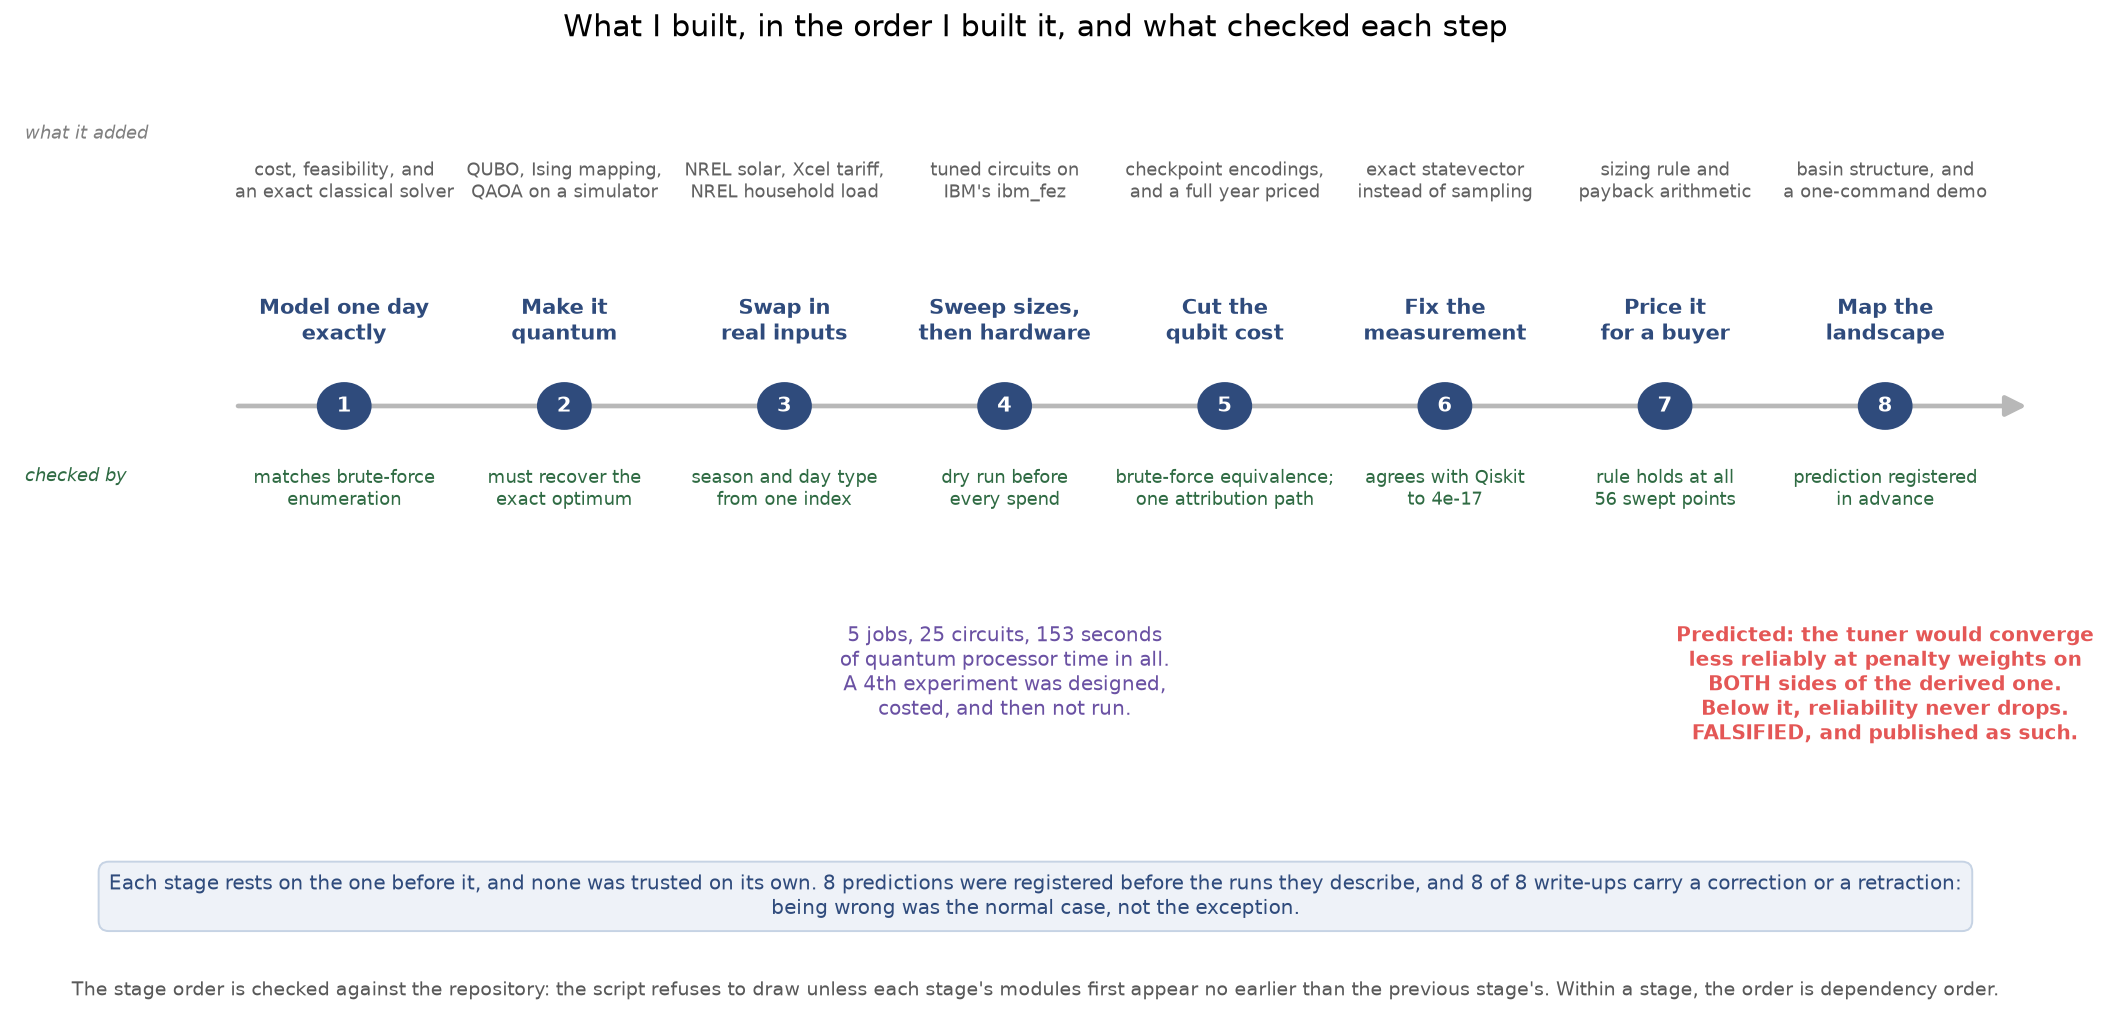
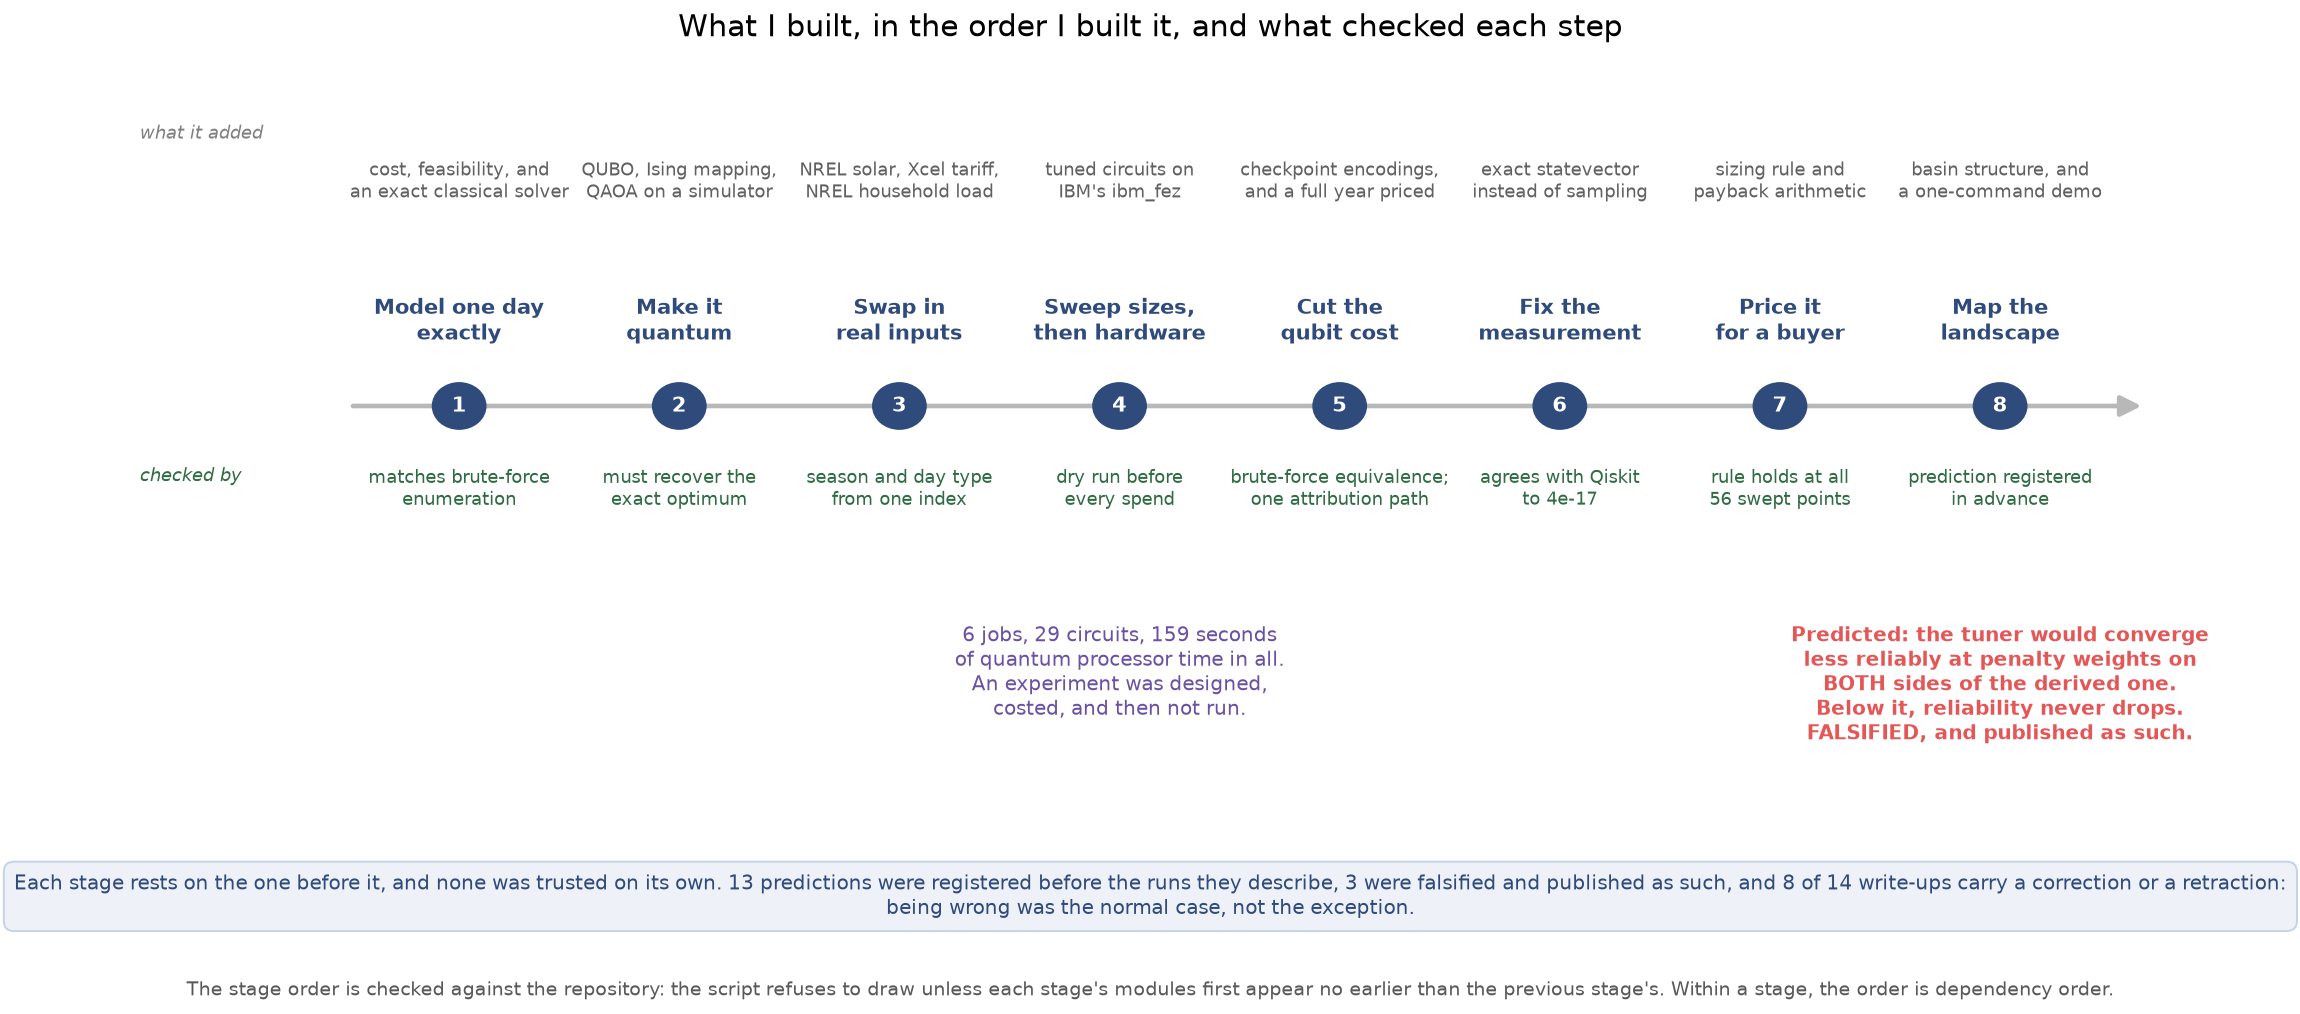
Consistency sweep after the depth run

diff --git a/scripts/make_process_figure.py b/scripts/make_process_figure.py
@@ -134,17 +134,21 @@ def gather():
     plans = sorted(PLANS.glob("*.md"))
     writeups = [p for p in sorted(RESULTS.glob("*.md")) if p.name not in GENERATED]
 
+    # Both counts are DERIVED and drawn, never asserted. An earlier version fixed
+    # the falsified count at one and required every write-up to carry a correction,
+    # so each new result made the figure unregenerable and the caption beside it
+    # drifted instead (docs/LESSONS.md section 7, on the figure about the process).
+    # The guards below check the claim is non-vacuous, not that it is a fixed size.
     falsified = [p for p in writeups if "FALSIFIED" in p.read_text()]
-    if len(falsified) != 1:
+    if not falsified:
         raise SystemExit(
-            f"REFUSING TO DRAW: the summary claims one falsified prediction, but "
-            f"{len(falsified)} write-ups contain FALSIFIED.")
+            "REFUSING TO DRAW: the summary says predictions were falsified and "
+            "published as such, but no write-up contains FALSIFIED.")
     corrected = [p for p in writeups if CORRECTION.search(p.read_text())]
-    if len(corrected) != len(writeups):
-        missing = sorted(p.name for p in writeups if p not in corrected)
+    if not corrected:
         raise SystemExit(
-            f"REFUSING TO DRAW: the summary says every claim-making write-up carries "
-            f"a correction, but these do not: {missing}.")
+            "REFUSING TO DRAW: the summary says write-ups carry corrections, but "
+            "none does.")
 
     totals = re.search(
         r"\*\*(\d+) jobs, (\d+) circuits, ([\d,]+) shots, (\d+) seconds of QPU time",
@@ -165,6 +169,7 @@ def gather():
             "figure paraphrases.")
 
     return {"plans": len(plans), "writeups": len(writeups),
+            "falsified": len(falsified), "corrected": len(corrected),
             "jobs": int(totals.group(1)), "circuits": int(totals.group(2)),
             "qpu": int(totals.group(4))}
 
@@ -199,7 +204,7 @@ def main() -> None:
     # the prediction matters: "a prediction was falsified" is a claim about
     # temperament, and only the actual prediction makes it checkable.
     ax.text(3, -1.14, f"{d['jobs']} jobs, {d['circuits']} circuits, {d['qpu']} "
-            f"seconds\nof quantum processor time in all.\nA 4th experiment was "
+            f"seconds\nof quantum processor time in all.\nAn experiment was "
             f"designed,\ncosted, and then not run.",
             ha="center", va="top", fontsize=10.5, color=HARDWARE)
     ax.text(7, -1.14, "Predicted: the tuner would converge\nless reliably at penalty "
@@ -214,8 +219,9 @@ def main() -> None:
     fig.text(
         0.5, 0.125,
         f"Each stage rests on the one before it, and none was trusted on its own. "
-        f"{d['plans']} predictions were registered before the runs they describe, and "
-        f"{d['writeups']} of {d['writeups']} write-ups carry a correction or a "
+        f"{d['plans']} predictions were registered before the runs they describe, "
+        f"{d['falsified']} were falsified and published as such, and "
+        f"{d['corrected']} of {d['writeups']} write-ups carry a correction or a "
         f"retraction:\nbeing wrong was the normal case, not the exception.",
         ha="center", va="center", fontsize=10.5, color=INK,
         bbox=dict(boxstyle="round,pad=0.5", facecolor=BOX, edgecolor="#C6D3E4"))
@@ -231,8 +237,8 @@ def main() -> None:
     for i, ((title, *_), start) in enumerate(zip(STAGES, starts), 1):
         print(f"  {i}. {title.replace(chr(10), ' '):<40} earliest module {start}")
     print(f"  order check passed; {d['plans']} pre-registrations, "
-          f"{d['writeups']}/{d['writeups']} write-ups corrected, "
-          f"{d['qpu']} QPU-seconds")
+          f"{d['falsified']} falsified, {d['corrected']}/{d['writeups']} write-ups "
+          f"corrected, {d['qpu']} QPU-seconds")
 
 
 if __name__ == "__main__":

diff --git a/README.md b/README.md
@@ -250,9 +250,10 @@ The build order, and what was put in place to catch each stage being wrong. Each
 stage rests on the one before it and none was trusted on its own: the classical
 solver is checked against brute-force enumeration, QAOA against the exact optimum,
 the encodings against brute force again, the fast statevector against Qiskit, the
-sizing rule at all 56 swept points. Eight predictions were registered before the runs
-they describe, one was falsified and published as such, and a fourth hardware
-experiment was designed, costed, and then not run. The stage order is not asserted:
+sizing rule at all 56 swept points. Thirteen predictions were registered before the
+runs they describe, three were falsified and published as such, eight of fourteen
+write-ups carry a correction or a retraction, and one hardware experiment was
+designed, costed, and then not run. The stage order is not asserted:
 `scripts/make_process_figure.py` refuses to draw unless each stage's modules first
 appear in the repository no earlier than the previous stage's, so a tidier story
 than the one that happened fails instead of printing.

diff --git a/docs/results/hardware-run-depth.md b/docs/results/hardware-run-depth.md
@@ -21,6 +21,16 @@ exclude zero by a wide margin.
 ideal 1.93x advantage of the deeper circuit would be exactly cancelled by 2.4x the
 two-qubit gates. It was not cancelled; most of it survived.
 
+**This is the third failure of that model, and the third in the same direction.**
+[`hardware-run-encoding.md`](hardware-run-encoding.md) records the second, where
+`exact` "degraded substantially *less* than predicted" and fell below its
+pre-registered band, with the mass-fitted version having already failed against
+July's normalized TVD before that. A model that has now missed three times, always
+by predicting more degradation than occurs, is not merely wrong on this instance:
+it is **systematically pessimistic about gate count**, and no result in this
+repository should lean on it for a forward prediction. The registered prediction
+above leaned on it, which is why the falsification was available to be had.
+
 ## The circuits
 
 | circuit | 2Q | hw optimal mass | hw feasible mass | TVD(ideal,hw) | TVD(ideal,unif) | normalized |

diff --git a/docs/results/slack-free-encoding.md b/docs/results/slack-free-encoding.md
@@ -301,7 +301,12 @@ whatever the weights were).
 
 Fitting a depolarizing model to July's one usable row gives ~1.32% effective error
 per 2-qubit gate; it predicts held-out TVD at 77 and 290 gates to within 3.5% and
-1%. It does **not** predict single-bitstring optimal mass for collapsed circuits —
+1%. **That in-sample accuracy has not survived contact with later runs**: the model
+has since been falsified three times, always by predicting more degradation than
+occurred, most recently at 112 gates in
+[`hardware-run-depth.md`](hardware-run-depth.md). It is used below to price
+candidate circuits, which is what it is fit for; it should not be relied on for a
+forward prediction. It does **not** predict single-bitstring optimal mass for collapsed circuits —
 device noise has structure and does not take the state to exactly uniform — which
 is why H1's gate is on *ideal* mass, which can be computed exactly.
 
